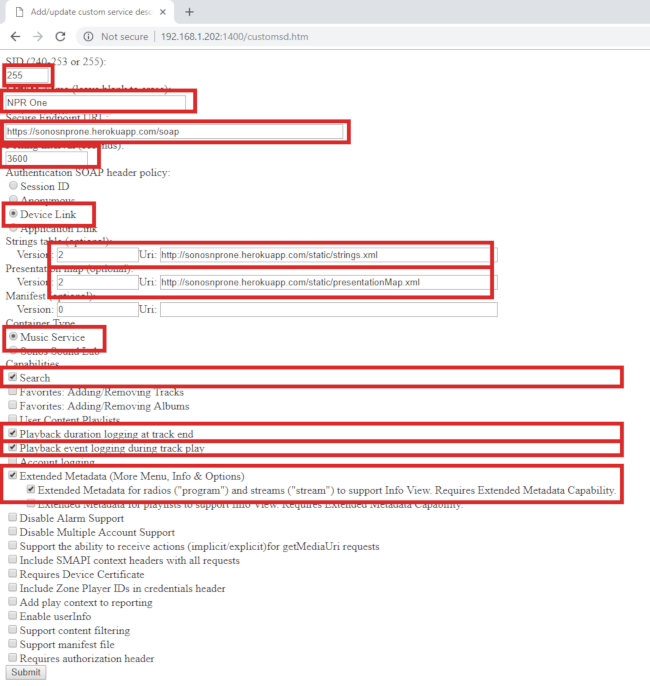
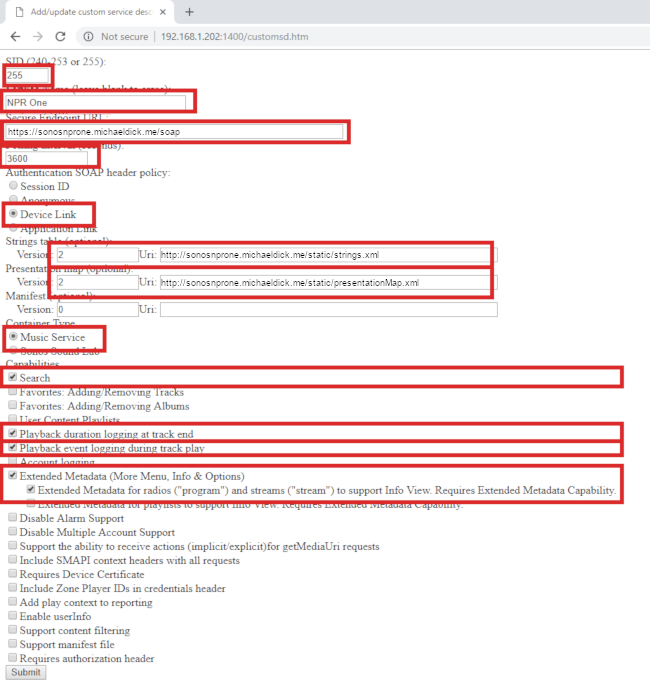
Switch to GCP endpoint

Changed region(s): [[0.2462, 0.3673, 0.6462, 0.4286], [0.0, 0.1837, 0.2769, 0.2143]]

diff --git a/sonosnpr.md b/sonosnpr.md
@@ -103,15 +103,15 @@ Enter the information below into the form and hit submit at the bottom of the pa
 
 1. **SID:** 255
 2. **Service Name:** NPROne
-4. **Secure Endpoint URL:** https://sonosnprone.herokuapp.com/soap
+4. **Secure Endpoint URL:** https://sonosnprone.michaeldick.me/soap
 5. **Polling Interval:** 3600
 6. **Authentication SOAP header policy:** Device Link
 7. **Strings table:**
   * Version: 2
-  * Uri: http://sonosnprone.herokuapp.com/static/strings.xml
+  * Uri: http://sonosnprone.michaeldick.me/static/strings.xml
 8. **Presentation map:**
  * Version: 2
- * Uri: http://sonosnprone.herokuapp.com/static/presentationMap.xml
+ * Uri: http://sonosnprone.michaeldick.me/static/presentationMap.xml
 9. **Container Type:**
  * Music Service
 11. **Capabilities:**
